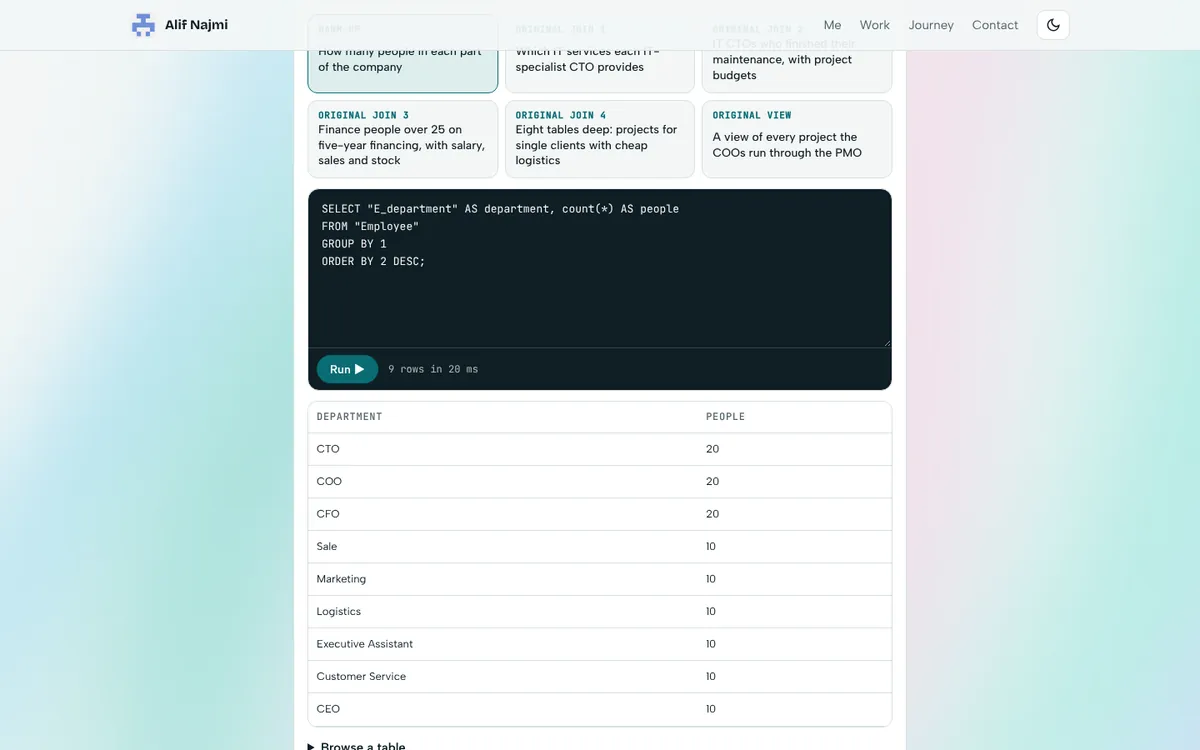
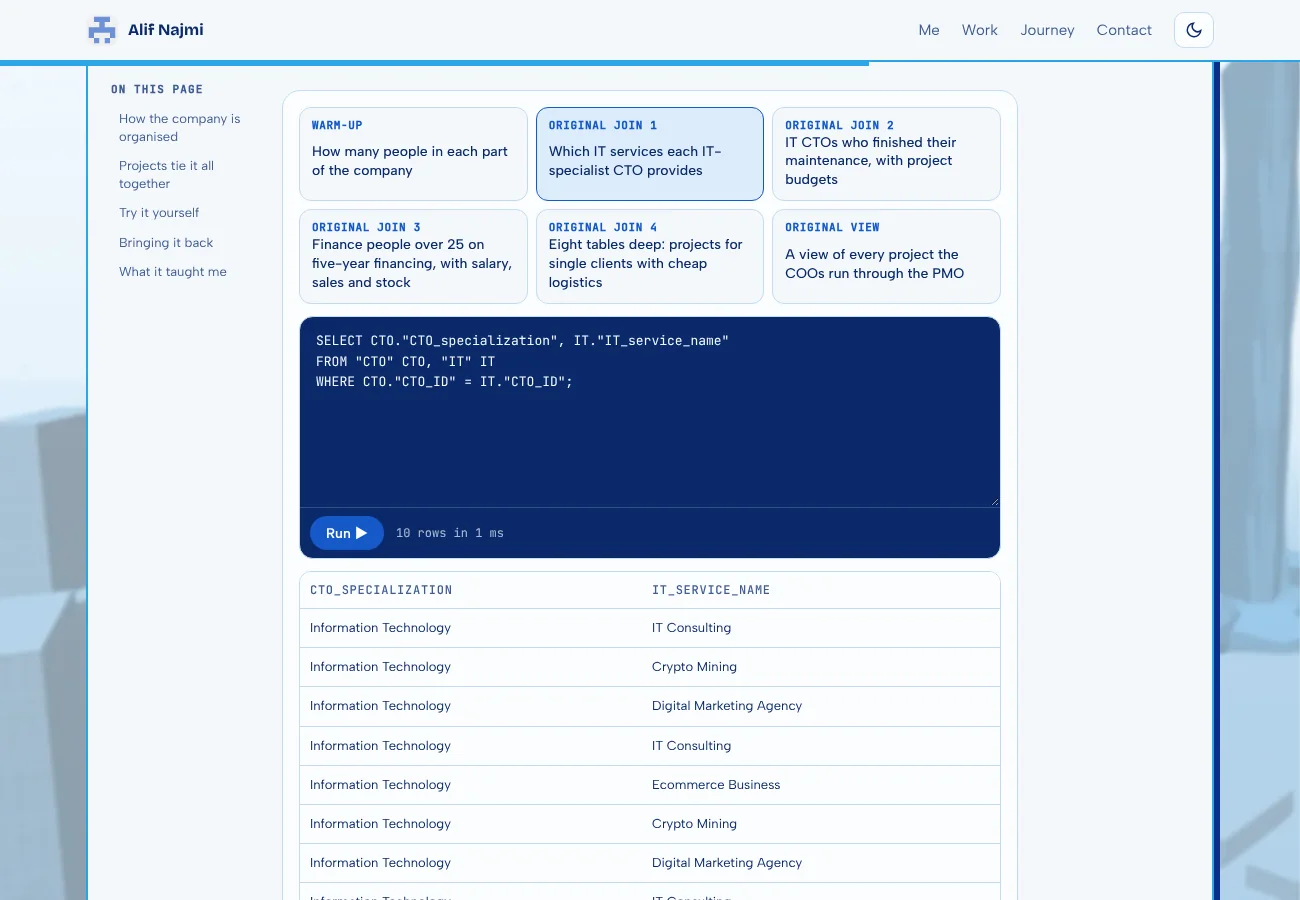
README: playground and Join Atlas screenshots retaken; the contents rail no longer shows through the atlas
Claude-Session: https://claude.ai/code/session_016zwXQRARmSJWP5d5U37GV4

diff --git a/index.html b/index.html
@@ -32,8 +32,8 @@
 <link rel="preconnect" href="https://fonts.gstatic.com" crossorigin>
 <link rel="stylesheet" href="https://fonts.googleapis.com/css2?family=Bricolage+Grotesque:opsz,wght@12..96,500;12..96,700;12..96,800&family=Albert+Sans:wght@400;500;600&family=JetBrains+Mono:wght@400;500&display=swap">
 <link rel="stylesheet" href="https://fonts.googleapis.com/css2?family=Pixelify+Sans:wght@500;600&display=swap" media="print" onload="this.media='all'"><noscript><link rel="stylesheet" href="https://fonts.googleapis.com/css2?family=Pixelify+Sans:wght@500;600&display=swap"></noscript>
-<link rel="stylesheet" href="assets/site.css?v=20261113w">
-<link rel="stylesheet" href="assets/scene.css?v=20261113w">
+<link rel="stylesheet" href="assets/site.css?v=20261113x">
+<link rel="stylesheet" href="assets/scene.css?v=20261113x">
 <script type="application/ld+json">{"@context": "https://schema.org", "@type": "Person", "name": "Muhammad Alif Najmi", "alternateName": "Alif Najmi", "url": "https://7ymera.github.io/", "jobTitle": "Business Analyst", "worksFor": {"@type": "Organization", "name": "axrail.ai"}, "alumniOf": {"@type": "CollegeOrUniversity", "name": "Universiti Teknologi PETRONAS"}, "address": {"@type": "PostalAddress", "addressLocality": "Kuala Lumpur", "addressCountry": "MY"}, "sameAs": ["https://github.com/7YMERA", "https://www.linkedin.com/in/muhammad-alif-najmi-md-hisamudin"], "image": "https://7ymera.github.io/assets/og-card.jpg?v=3"}</script>
 <script type="application/ld+json">{"@context": "https://schema.org", "@type": "WebSite", "name": "Alif Najmi", "url": "https://7ymera.github.io/"}</script>
 </head>
@@ -959,12 +959,12 @@
   });
 })();
 </script>
-<script src="assets/curved-reel.js?v=20261113w" defer></script>
-<script src="assets/folders.js?v=20261113w" defer></script>
-<script src="assets/coverflow.js?v=20261113w" defer></script>
-<script src="assets/extras.js?v=20261113w" defer></script>
-<script src="assets/pulse.js?v=20261113w" defer></script>
+<script src="assets/curved-reel.js?v=20261113x" defer></script>
+<script src="assets/folders.js?v=20261113x" defer></script>
+<script src="assets/coverflow.js?v=20261113x" defer></script>
+<script src="assets/extras.js?v=20261113x" defer></script>
+<script src="assets/pulse.js?v=20261113x" defer></script>
 <script src="https://cdnjs.cloudflare.com/ajax/libs/three.js/r128/three.min.js" integrity="sha384-CI3ELBVUz9XQO+97x6nwMDPosPR5XvsxW2ua7N1Xeygeh1IxtgqtCkGfQY9WWdHu" crossorigin="anonymous" defer></script>
-<script src="assets/scene.js?v=20261113w" defer></script>
+<script src="assets/scene.js?v=20261113x" defer></script>
 </body>
 </html>

diff --git a/notes/jom-al-quran.html b/notes/jom-al-quran.html
@@ -24,9 +24,9 @@
 <link rel="preconnect" href="https://fonts.googleapis.com">
 <link rel="preconnect" href="https://fonts.gstatic.com" crossorigin>
 <link rel="stylesheet" href="https://fonts.googleapis.com/css2?family=Bricolage+Grotesque:opsz,wght@12..96,500;12..96,700;12..96,800&family=Albert+Sans:wght@400;500;600&family=JetBrains+Mono:wght@400;500&display=swap">
-<link rel="stylesheet" href="../assets/site.css?v=20261113w">
-<link rel="stylesheet" href="../assets/scene.css?v=20261113w">
-<link rel="stylesheet" href="../assets/join-atlas.css?v=20261113w">
+<link rel="stylesheet" href="../assets/site.css?v=20261113x">
+<link rel="stylesheet" href="../assets/scene.css?v=20261113x">
+<link rel="stylesheet" href="../assets/join-atlas.css?v=20261113x">
 <script type="application/ld+json">
 {
  "@context": "https://schema.org",
@@ -243,8 +243,8 @@ ORDER BY E_ID;</template>
   });
 })();
 </script>
-<script src="../assets/db-playground.js?v=20261113w" defer></script>
-<script src="../assets/join-atlas.js?v=20261113w" defer></script>
-<script src="../assets/reader.js?v=20261113w" defer></script>
+<script src="../assets/db-playground.js?v=20261113x" defer></script>
+<script src="../assets/join-atlas.js?v=20261113x" defer></script>
+<script src="../assets/reader.js?v=20261113x" defer></script>
 </body>
 </html>

diff --git a/flight/index.html b/flight/index.html
@@ -13,8 +13,8 @@
 <link rel="preconnect" href="https://fonts.googleapis.com">
 <link rel="preconnect" href="https://fonts.gstatic.com" crossorigin>
 <link rel="stylesheet" href="https://fonts.googleapis.com/css2?family=Bricolage+Grotesque:opsz,wght@12..96,500;12..96,700;12..96,800&family=Albert+Sans:wght@400;500;600&family=JetBrains+Mono:wght@400;500&family=Pixelify+Sans:wght@500;600&display=swap">
-<link rel="stylesheet" href="../assets/site.css?v=20261113w">
-<link rel="stylesheet" href="../assets/scene.css?v=20261113w">
+<link rel="stylesheet" href="../assets/site.css?v=20261113x">
+<link rel="stylesheet" href="../assets/scene.css?v=20261113x">
 <style>
 /* Flight-only page: the scene is the page. Nothing but the debug panel (opt-in) sits on top of it. */
 html.gl body{margin:0;background:linear-gradient(var(--sky1),var(--sky2)) fixed}
@@ -77,7 +77,7 @@ html.fp-on .fp{display:grid}
 </aside>
 
 <script src="https://cdnjs.cloudflare.com/ajax/libs/three.js/r128/three.min.js" defer></script>
-<script src="../assets/scene.js?v=20261113w" defer></script>
+<script src="../assets/scene.js?v=20261113x" defer></script>
 <script>
 /* The viewer: everything here is optional. Without it, scrolling flies the route. */
 (function(){

diff --git a/notes/database.html b/notes/database.html
@@ -24,8 +24,8 @@
 <link rel="preconnect" href="https://fonts.googleapis.com">
 <link rel="preconnect" href="https://fonts.gstatic.com" crossorigin>
 <link rel="stylesheet" href="https://fonts.googleapis.com/css2?family=Bricolage+Grotesque:opsz,wght@12..96,500;12..96,700;12..96,800&family=Albert+Sans:wght@400;500;600&family=JetBrains+Mono:wght@400;500&display=swap">
-<link rel="stylesheet" href="../assets/site.css?v=20261113w">
-<link rel="stylesheet" href="../assets/scene.css?v=20261113w">
+<link rel="stylesheet" href="../assets/site.css?v=20261113x">
+<link rel="stylesheet" href="../assets/scene.css?v=20261113x">
 <script type="application/ld+json">
 {
  "@context": "https://schema.org",
@@ -183,7 +183,7 @@ SELECT * FROM &quot;COO project&quot;;</template>
   });
 })();
 </script>
-<script src="../assets/db-playground.js?v=20261113w" defer></script>
-<script src="../assets/reader.js?v=20261113w" defer></script>
+<script src="../assets/db-playground.js?v=20261113x" defer></script>
+<script src="../assets/reader.js?v=20261113x" defer></script>
 </body>
 </html>

diff --git a/notes/index.html b/notes/index.html
@@ -24,8 +24,8 @@
 <link rel="preconnect" href="https://fonts.googleapis.com">
 <link rel="preconnect" href="https://fonts.gstatic.com" crossorigin>
 <link rel="stylesheet" href="https://fonts.googleapis.com/css2?family=Bricolage+Grotesque:opsz,wght@12..96,500;12..96,700;12..96,800&family=Albert+Sans:wght@400;500;600&family=JetBrains+Mono:wght@400;500&display=swap">
-<link rel="stylesheet" href="../assets/site.css?v=20261113w">
-<link rel="stylesheet" href="../assets/scene.css?v=20261113w">
+<link rel="stylesheet" href="../assets/site.css?v=20261113x">
+<link rel="stylesheet" href="../assets/scene.css?v=20261113x">
 </head>
 <body>
 <div class="sky" aria-hidden="true"></div>
@@ -121,7 +121,7 @@
   });
 })();
 </script>
-<script src="../assets/image-stream.js?v=20261113w" defer></script>
-<script src="../assets/reader.js?v=20261113w" defer></script>
+<script src="../assets/image-stream.js?v=20261113x" defer></script>
+<script src="../assets/reader.js?v=20261113x" defer></script>
 </body>
 </html>

diff --git a/notes/slb-screens.html b/notes/slb-screens.html
@@ -24,8 +24,8 @@
 <link rel="preconnect" href="https://fonts.googleapis.com">
 <link rel="preconnect" href="https://fonts.gstatic.com" crossorigin>
 <link rel="stylesheet" href="https://fonts.googleapis.com/css2?family=Bricolage+Grotesque:opsz,wght@12..96,500;12..96,700;12..96,800&family=Albert+Sans:wght@400;500;600&family=JetBrains+Mono:wght@400;500&display=swap">
-<link rel="stylesheet" href="../assets/site.css?v=20261113w">
-<link rel="stylesheet" href="../assets/scene.css?v=20261113w">
+<link rel="stylesheet" href="../assets/site.css?v=20261113x">
+<link rel="stylesheet" href="../assets/scene.css?v=20261113x">
 <style>
 .tour { padding-block: 40px 64px; }
 .tour-head { display: grid; gap: 10px; max-width: 46rem; margin-bottom: 26px; }
@@ -230,6 +230,6 @@
   show(0);
 })();
 </script>
-<script src="../assets/reader.js?v=20261113w" defer></script>
+<script src="../assets/reader.js?v=20261113x" defer></script>
 </body>
 </html>

diff --git a/notes/aws-two-departments.html b/notes/aws-two-departments.html
@@ -24,8 +24,8 @@
 <link rel="preconnect" href="https://fonts.googleapis.com">
 <link rel="preconnect" href="https://fonts.gstatic.com" crossorigin>
 <link rel="stylesheet" href="https://fonts.googleapis.com/css2?family=Bricolage+Grotesque:opsz,wght@12..96,500;12..96,700;12..96,800&family=Albert+Sans:wght@400;500;600&family=JetBrains+Mono:wght@400;500&display=swap">
-<link rel="stylesheet" href="../assets/site.css?v=20261113w">
-<link rel="stylesheet" href="../assets/scene.css?v=20261113w">
+<link rel="stylesheet" href="../assets/site.css?v=20261113x">
+<link rel="stylesheet" href="../assets/scene.css?v=20261113x">
 <script type="application/ld+json">
 {
  "@context": "https://schema.org",
@@ -137,6 +137,6 @@
   });
 })();
 </script>
-<script src="../assets/reader.js?v=20261113w" defer></script>
+<script src="../assets/reader.js?v=20261113x" defer></script>
 </body>
 </html>

diff --git a/notes/convocation-2026.html b/notes/convocation-2026.html
@@ -24,8 +24,8 @@
 <link rel="preconnect" href="https://fonts.googleapis.com">
 <link rel="preconnect" href="https://fonts.gstatic.com" crossorigin>
 <link rel="stylesheet" href="https://fonts.googleapis.com/css2?family=Bricolage+Grotesque:opsz,wght@12..96,500;12..96,700;12..96,800&family=Albert+Sans:wght@400;500;600&family=JetBrains+Mono:wght@400;500&display=swap">
-<link rel="stylesheet" href="../assets/site.css?v=20261113w">
-<link rel="stylesheet" href="../assets/scene.css?v=20261113w">
+<link rel="stylesheet" href="../assets/site.css?v=20261113x">
+<link rel="stylesheet" href="../assets/scene.css?v=20261113x">
 <script type="application/ld+json">
 {
  "@context": "https://schema.org",
@@ -143,6 +143,6 @@
   });
 })();
 </script>
-<script src="../assets/reader.js?v=20261113w" defer></script>
+<script src="../assets/reader.js?v=20261113x" defer></script>
 </body>
 </html>

diff --git a/notes/jumaatfinder.html b/notes/jumaatfinder.html
@@ -24,8 +24,8 @@
 <link rel="preconnect" href="https://fonts.googleapis.com">
 <link rel="preconnect" href="https://fonts.gstatic.com" crossorigin>
 <link rel="stylesheet" href="https://fonts.googleapis.com/css2?family=Bricolage+Grotesque:opsz,wght@12..96,500;12..96,700;12..96,800&family=Albert+Sans:wght@400;500;600&family=JetBrains+Mono:wght@400;500&display=swap">
-<link rel="stylesheet" href="../assets/site.css?v=20261113w">
-<link rel="stylesheet" href="../assets/scene.css?v=20261113w">
+<link rel="stylesheet" href="../assets/site.css?v=20261113x">
+<link rel="stylesheet" href="../assets/scene.css?v=20261113x">
 <script type="application/ld+json">
 {
  "@context": "https://schema.org",
@@ -128,6 +128,6 @@
   });
 })();
 </script>
-<script src="../assets/reader.js?v=20261113w" defer></script>
+<script src="../assets/reader.js?v=20261113x" defer></script>
 </body>
 </html>

diff --git a/notes/kakilima.html b/notes/kakilima.html
@@ -24,8 +24,8 @@
 <link rel="preconnect" href="https://fonts.googleapis.com">
 <link rel="preconnect" href="https://fonts.gstatic.com" crossorigin>
 <link rel="stylesheet" href="https://fonts.googleapis.com/css2?family=Bricolage+Grotesque:opsz,wght@12..96,500;12..96,700;12..96,800&family=Albert+Sans:wght@400;500;600&family=JetBrains+Mono:wght@400;500&display=swap">
-<link rel="stylesheet" href="../assets/site.css?v=20261113w">
-<link rel="stylesheet" href="../assets/scene.css?v=20261113w">
+<link rel="stylesheet" href="../assets/site.css?v=20261113x">
+<link rel="stylesheet" href="../assets/scene.css?v=20261113x">
 <script type="application/ld+json">
 {
  "@context": "https://schema.org",
@@ -139,6 +139,6 @@
   });
 })();
 </script>
-<script src="../assets/reader.js?v=20261113w" defer></script>
+<script src="../assets/reader.js?v=20261113x" defer></script>
 </body>
 </html>

diff --git a/notes/mylokalevent-v2.html b/notes/mylokalevent-v2.html
@@ -24,8 +24,8 @@
 <link rel="preconnect" href="https://fonts.googleapis.com">
 <link rel="preconnect" href="https://fonts.gstatic.com" crossorigin>
 <link rel="stylesheet" href="https://fonts.googleapis.com/css2?family=Bricolage+Grotesque:opsz,wght@12..96,500;12..96,700;12..96,800&family=Albert+Sans:wght@400;500;600&family=JetBrains+Mono:wght@400;500&display=swap">
-<link rel="stylesheet" href="../assets/site.css?v=20261113w">
-<link rel="stylesheet" href="../assets/scene.css?v=20261113w">
+<link rel="stylesheet" href="../assets/site.css?v=20261113x">
+<link rel="stylesheet" href="../assets/scene.css?v=20261113x">
 <script type="application/ld+json">
 {
  "@context": "https://schema.org",
@@ -142,6 +142,6 @@
   });
 })();
 </script>
-<script src="../assets/reader.js?v=20261113w" defer></script>
+<script src="../assets/reader.js?v=20261113x" defer></script>
 </body>
 </html>

diff --git a/notes/slb-design.html b/notes/slb-design.html
@@ -24,8 +24,8 @@
 <link rel="preconnect" href="https://fonts.googleapis.com">
 <link rel="preconnect" href="https://fonts.gstatic.com" crossorigin>
 <link rel="stylesheet" href="https://fonts.googleapis.com/css2?family=Bricolage+Grotesque:opsz,wght@12..96,500;12..96,700;12..96,800&family=Albert+Sans:wght@400;500;600&family=JetBrains+Mono:wght@400;500&display=swap">
-<link rel="stylesheet" href="../assets/site.css?v=20261113w">
-<link rel="stylesheet" href="../assets/scene.css?v=20261113w">
+<link rel="stylesheet" href="../assets/site.css?v=20261113x">
+<link rel="stylesheet" href="../assets/scene.css?v=20261113x">
 <script type="application/ld+json">
 {
  "@context": "https://schema.org",
@@ -178,6 +178,6 @@
   });
 })();
 </script>
-<script src="../assets/reader.js?v=20261113w" defer></script>
+<script src="../assets/reader.js?v=20261113x" defer></script>
 </body>
 </html>
